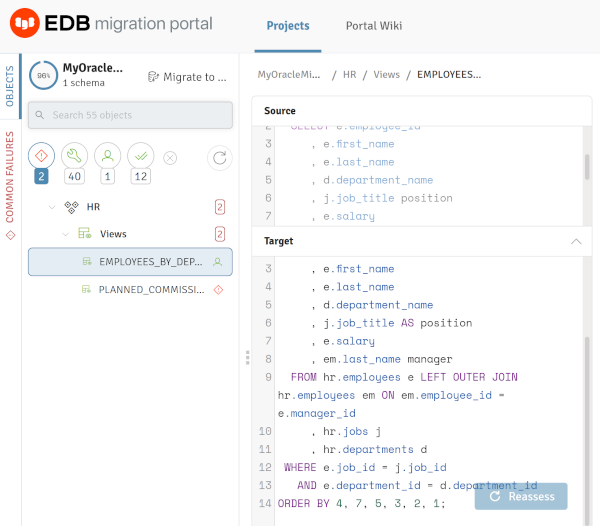
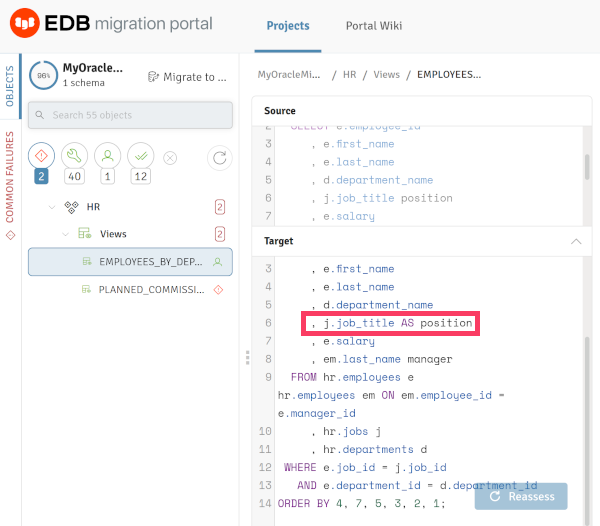
EPAS15

Changed region(s): [[0.48, 0.5779, 0.81, 0.6388], [0.69, 0.6996, 0.87, 0.73]]

diff --git a/README.md b/README.md
@@ -2,90 +2,44 @@
 
 ## Demo prep
 
-1. [Create an EDB account](https://www.enterprisedb.com/accounts/register) for logging into the EDB [Migration Portal](https://migration.enterprisedb.com) if you don't already have access.
-2. Store repo credentaisl in `$HOME/.edbrepocred`
-2. Install software to provision systems for Oracle and EDB migration tools. Docker needs to be installed on your computer to prepare the demo with an Oracle instance and a virtual machine with all of the EDB migration tools. The following steps are all done from the command line:
+Create an EDB repo token and store this token in `$HOME/.edbtoken`
 
-1. [Create a free account with Oracle](https://profile.oracle.com/myprofile/account/create-account.jspx).
-2. Authenticate with Oracle's docker registry on the command line (only needs to be done once): 
+[Create a free account with Oracle](https://profile.oracle.com/myprofile/account/create-account.jspx).
 
-   `docker login container-registry.oracle.com`
-3. Pull the Docker images to use:
-   1. Oracle Express Edition:
-   
-   `docker pull container-registry.oracle.com/database/express:18.4.0-xe`
+Run script `00-provision.sh`. This script will:
+- Create a Big Animal instance according to `ba-config.yaml`
+- Create containers for the EDB tools and Oracle database
+- Load database schemas into Oracle database
+- Setup PEM
 
-   2. Oracle Linux 7: 
-   
-   `docker pull oraclelinux:7`
-
-4. Run the supplied script to build the Docker images for the demo: 
-
-`REPOUSER="$(awk -F':' '{print $1}' $HOME/.edbrepocred)"`
-
-`REPOPASS="$(awk -F':' '{print $2}' $HOME/.edbrepocred)"`
-
-`docker/build-image $REPOUSER $REPOPASS`
-
-5. Run the supplied script to create the Docker containers for the demo:
-
-   `docker/create-container`
-
-6. Create the Oracle sample schemas and load data with supplied script:
-
-   `docker/load-database`
-
-7. Configure PEM: 
-
-`docker/config-pem`
-
-8. Build a virtual machine with all of the EDB migration tools.
-9. Provision a BigAnimal cluster to be used as the migration destination.
-
-## Demo flow
-
-# Demo Guide
-
-This is a recommended guide on how to perform a demonstration of an Oracle
-database migration using the EDB migration tools.
-
-## EDB Migration Portal
-
-The EDB Migration Portal is used to analyze the Oracle schema and generate a
-compatible PostgreSQL Schema.
-
-### Preparation
-
-Passwords, IP addresses and connection information should be gathered from the
-the BigAnimal cluster before performing the demo, unless you wish to demo that
-aspect of BigAnimal.
-
-The IP address and Oracle sysdba password can be retrieved by running:
-`docker/info`
-
+The script will finish showing you access details similar to this:
 ```
-% docker/info
+--- Info ---
 EDB IP Address: 172.17.0.3
 EDB PEM URL: https://172.17.0.3/pem
-Oracle Database Password: c90c1b7f2eb71d9c
+Oracle Database Password: f19ee331c43e327a
 Oracle Database IP Address: 172.17.0.2
+┌────────────────────────────────────────────────────────────────────────────────────────────────────────────────────────────────────────────────────────────────────────────┐
+│ Clusters                                                                                                                                                                   │
+├──────────────┬────────────────────────┬──────────┬──────────────┬─────────┬───────────┬───────────────┬──────────────────────────────────┬────────────────────┬────────────┤
+│ ID           │ Name                   │ Provider │ Architecture │ Status  │ Region    │ Instance Type │ Postgres Details                 │ Maintenance Window │ FAReplicas │
+├──────────────┼────────────────────────┼──────────┼──────────────┼─────────┼───────────┼───────────────┼──────────────────────────────────┼────────────────────┼────────────┤
+│ p-78sv9i7qnb │ tons-biganimal-cluster │ AWS      │ single       │ Healthy │ EU West 1 │ m5.large      │ EDB Postgres Advanced Server v15 │ Disabled           │ N/A        │
+│              │                        │          │              │         │           │               │                                  │                    │            │
+└──────────────┴────────────────────────┴──────────┴──────────────┴─────────┴───────────┴───────────────┴──────────────────────────────────┴────────────────────┴────────────┘
+┌───────────────────────┬──────────────────────────────────────────────────────────────────────────────────────────┐
+│ Name                  │ Details                                                                                  │
+├───────────────────────┼──────────────────────────────────────────────────────────────────────────────────────────┤
+│ read-write-connection │ postgresql://edb_admin@p-78sv9i7qnb.private.8iufxybhqsx2cu1t.biganimal.io:5432/edb_admin │
+│ rw-service-name       │ N/A                                                                                      │
+│ read-only-connection  │ Not Supported                                                                            │
+│ ro-service-name       │ Not Supported                                                                            │
+└───────────────────────┴──────────────────────────────────────────────────────────────────────────────────────────┘
 ```
 
-The connection information from the BigAnimal clusters:
-
-1. Click on `Clusters` in the left sidebar.
-2. Click on the lock shaped icon next to the cluster to use.
-3. Note the `Dbname`, `Host`, and `User` information.  The password will be
-   what was entered when creating the cluster.
-
-![](images/biganimal-connect.png)
-
-### Demonstration
-
+# Demo Flow
 1. Log into the EDB [Migration Portal](https://migration.enterprisedb.com).
-2. Download the EDB DDL Extractor.  A direct link to the DDL Extractor cannot
-   be provided at this time.  
-   ![](images/edb-migration-portal-ddl-extractor.png)
+2. Download the EDB DDL Extractor.
 3. Copy the DDL Extractor to the `docker/` subdirectory, which is mounted at
    `/mnt` within the **edbdemo** container.
 4. Run the EDB DDL Extractor using the provided help script:
@@ -121,53 +75,44 @@ Assessment may fail for such objects. It is suggested to extract all dependent o
 
 Extract dependent object from other schemas?(yes/no) (Default no / Ignored for all schemas option):yes
 
+Extract GRANT statements?(yes/no) (Default no):yes
+
 ```
 5. Note the name of the resulting DDL file.  Near the end of the DDL Extractor
-   out will be a message with the filename: `We have stored DDL(s) for
-   Schema(s)  HRPLUS to _gen_hrplus_ddls_211111213244.sql.`
+   out will be a message with the filename: We have stored DDL(s) for
+   Schema(s)  HRPLUS to ***_gen_hrplus_ddls_211111213244.sql***.
 6. Back in the Migration Portal, create a new project
    1. Enter a new project name.
    2. The Oracle version used in this kit is 18c.
+   3. The Postgres version is ***13***. Choosing a later version reduces the number of errors.
    3. The DDL file to choose is the one just created from the container:
       `_gen_hrplus_ddls_211111213244.sql`
    4. Click **Create & assess**.  
-      ![](images/edb-migration-portal-new-project.png)
 7. Demonstrate how to correct the reported errors.
    1. Click the right error to expand the schema details.  
-      ![](images/migration-portal-schemas.png)
    2. Expand the HRPLUS schema in the left sidebar and filter for failures by
 	  clicking on the exclamation point within the diamond.  
-      ![](images/migration-portal-schemas-objects-failed.png)
    3. Fix the *EMPLOYEES_BY_DEPARTMENT_VIEW* view.
-	  1. Rewrite the Oracle left outer join operator `(+)` as an explicit
-		 `LEFT OUTER JOIN` join type in the `FROM` clause.
-      2. Add the `AS` keyword to the `j.job_title position` expression in the
+      1. Add the `AS` keyword to the `j.job_title position` expression in the
 		 SELECT clause.  
       ![](images/migration-portal-schemas-employees_by_department_view.png)
    4. Fix the *ERROR_VIEW* view.
       1. Replace the `BITAND()` function with the bitwise AND `(&)` operator.  
-      ![](images/migration-portal-schemas-objects-failed.png)
+      ![](images/migration-portal-schemas-error_view.png)
    5. Fix the *PLANNED_COMMISSION_UPDATES_VIEW* view.
       1. Cast the second argument of the `ROUND()` function to an integer.  
       ![](images/migration-portal-schemas-planned_commision_udpates_view.png)
 8. Migrate the schema to BigAnimal.
    1. Click on `Migrate to ...`  
-      ![](images/edb-migration-portal-migrate-to.png)
-   2. Select `EDB Postgres Advanced Server on Cloud` and click `Next`.  
-      ![](images/edb-migration-portal-migrate-to-cloud.png)
+   2. Select `Online Migration`
    3. The `HRPLUS` should be selected, and the only schema listed.  Click `Next`.  
-      ![](images/edb-migration-portal-migrate-schema.png)
-   4. Select `BigAnimal` and click `Next`.  
-      ![](images/edb-migration-portal-migrate-to-cloud-biganimal.png)
-   5. If a BigAnimal cluster doesn't exist yet, create one now.  Then click
-      `Next`.
-   6. Enter the connection information to BigAnimal, click `Test Connection`,
+   4. Enter the connection information to BigAnimal, click `Test Connection`,
       then click `Next`.
-      1. Target Database: edb_admin
-      2. Host Name/Address: copied from above
-      3. Password: password that was entered when creating BigAnimal cluster  
+      1. Target Database: `Demo`
+      2. Host Name/Address: `p-78sv9i7qnb.private.8iufxybhqsx2cu1t.biganimal.io`
+      3. Password: `enterprisedb` 
       ![](images/edb-migration-portal-test-connection.png)
-   7. When migration is complete, you may click `Done`.  
+   5. When migration is complete, you may click `Done`.  
       ![](images/edb-migration-portal-migration-successful.png)
 
 ## Migration Took Kit
